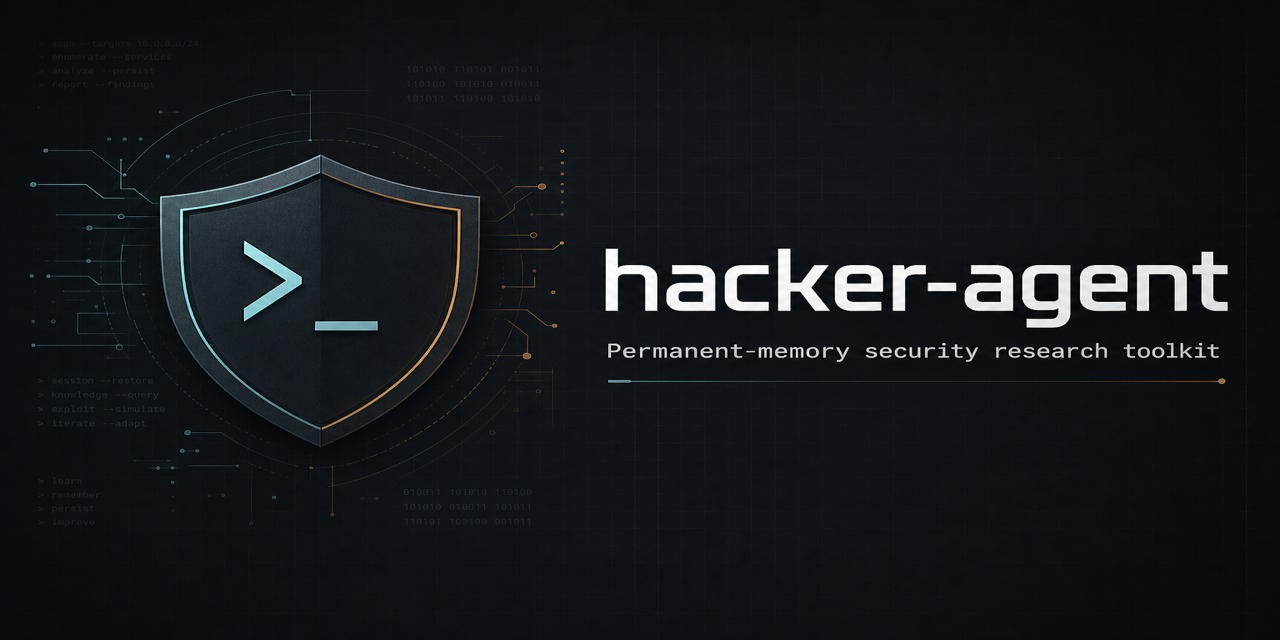
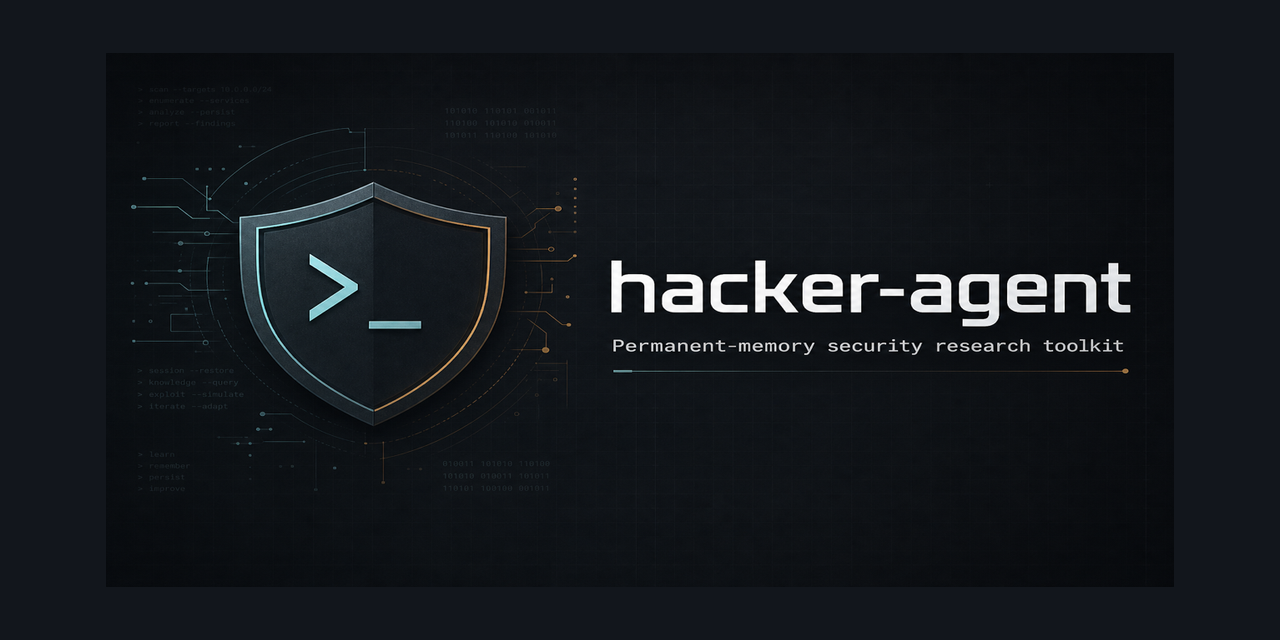
chore(github): add OG template and issue template config (#15)
Ship GitHub social preview safe-zone template, reframe the preview asset
under 1 MB, and route security reports away from blank issues.

diff --git a/README.md b/README.md
@@ -180,7 +180,9 @@ hacker-agent ghidra guide
   terminal to run `uv run hacker-agent …`. Optional project subagents live in
   [`.cursor/agents/`](.cursor/agents/); repo rules are in [`AGENTS.md`](AGENTS.md).
   For link previews, upload [`.github/social-preview.png`](.github/social-preview.png)
-  under the repository’s **Settings → General → Social preview** on GitHub.
+  under the repository’s **Settings → General → Social preview** on GitHub (under **1 MB**;
+  use [`.github/repository-open-graph-template.png`](.github/repository-open-graph-template.png)
+  for safe margins).
 - **Ghidra MCP**: The `ghidra` package submodule lists **expected MCP tool names**
   and prints a **workflow guide** to stdout. Disassembly and MCP calls execute
   in your Ghidra-backed MCP server and host agent, not inside `hacker-agent`
